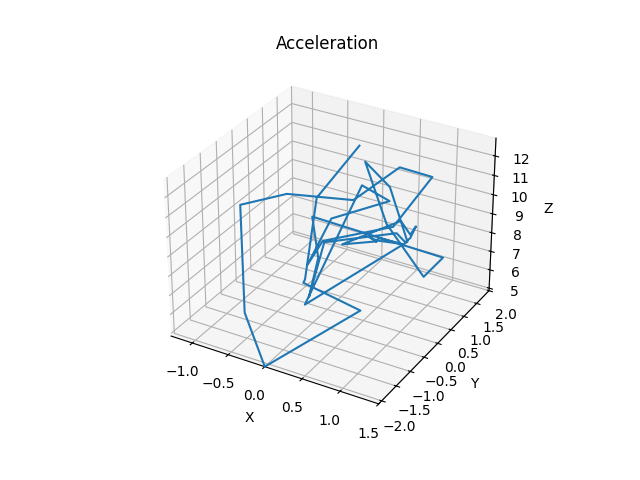
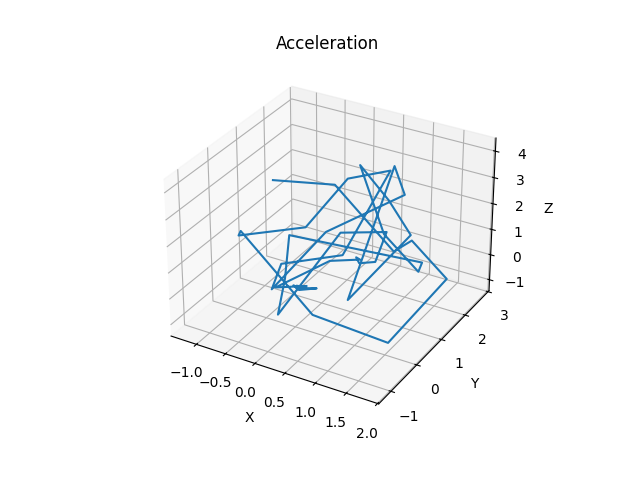
Added method to remove gravity from acceleration messurments to ensure only aplied acceleration is being ploted

Changed region(s): [[0.25, 0.1875, 0.8438, 0.9062], [0.25, 0.75, 0.375, 0.8125]]

diff --git a/dataVisualizer.py b/dataVisualizer.py
@@ -1,17 +1,14 @@
 from matplotlib import animation, pyplot as plot
-from math import tan, arctan, pi
+from math import tan, atan, tau
 
+GRAVITY = -9.81
 
 def main():
     #Open files
     gyroscopeFile = open("./data/testing/gyroscope.txt")
     accelerationFile = open("./data/testing/acceleration.txt")
 
-    GRAVITY = 9.81
-
-    orientation:list[float] = [0, 0, 0] #yaw, pitch, roll in radian
-
-    time_stamp:list[float] = []
+    timeStamp:list[float] = []
 
     gyro_X:list[float] = []
     gyro_Y:list[float] = []
@@ -25,40 +22,38 @@ def main():
     for line in accelerationFile:
         splitLine = line.split(",")
         #milliseconds to seconds
-        time_stamp.append(float(splitLine[0]) / 1000)
-        accel_X.append(float(splitLine[1][1:-1]))
-        accel_Y.append(float(splitLine[2][1:-1]))
-        accel_Z.append(float(splitLine[3][1:-1]))
+        timeStamp.append(float(splitLine[0]) / 1000)
+        accel_X.append(float(splitLine[1]))
+        accel_Y.append(float(splitLine[2]))
+        accel_Z.append(float(splitLine[3]))
 
     for line in gyroscopeFile:
         splitLine = line.split(",")
-        gyro_X.append(float(splitLine[1][1:-1]))
-        gyro_Y.append(float(splitLine[1][1:-1]))
-        gyro_Z.append(float(splitLine[1][1:-1]))
+        gyro_X.append(float(splitLine[1]))
+        gyro_Y.append(float(splitLine[1]))
+        gyro_Z.append(float(splitLine[1]))
 
     #Close files
     gyroscopeFile.close()
     accelerationFile.close()
 
-    #Determine inital orientation
-    orientation[0] = arctan(GRAVITY / accel_X)
-    orientation[1] = arctan(GRAVITY / accel_Y)
-    orientation[2] = arctan(GRAVITY / accel_Z)
+    accel_X = removeGravity(gyro_X, accel_X, timeStamp)
+    accel_Y = removeGravity(gyro_Y, accel_Y, timeStamp)
+    accel_Z = removeGravity(gyro_Z, accel_Z, timeStamp)
+    #first position only used to determin inital orientation and does not get corrected
+    del accel_X[0], accel_Y[0], accel_Z[0], timeStamp[0]
 
-    velocity_X:list[float] = intergrateVelocity(time_stamp, accel_X)
-    velocity_Y:list[float] = intergrateVelocity(time_stamp, accel_Y)
-    velocity_Z:list[float] = intergrateVelocity(time_stamp, accel_Z)
+    velocity_X:list[float] = intergrateVelocity(timeStamp, accel_X)
+    velocity_Y:list[float] = intergrateVelocity(timeStamp, accel_Y)
+    velocity_Z:list[float] = intergrateVelocity(timeStamp, accel_Z)
 
-    position_X:list[float] = intergratePosition(time_stamp, accel_X, velocity_X)
-    position_Y:list[float] = intergratePosition(time_stamp, accel_Y, velocity_Y)
-    position_Z:list[float] = intergratePosition(time_stamp, accel_Z, velocity_Z)
+    position_X:list[float] = intergratePosition(timeStamp, accel_X, velocity_X)
+    position_Y:list[float] = intergratePosition(timeStamp, accel_Y, velocity_Y)
+    position_Z:list[float] = intergratePosition(timeStamp, accel_Z, velocity_Z)
 
     visualizeData(accel_X, accel_Y, accel_Z, "Acceleration")
     visualizeData(velocity_X, velocity_Y, velocity_Z, "Velocity")
     visualizeData(position_X, position_Y, position_Z, "Position")
-
-    
-
     
 
 def visualizeData(data_X:list[float], data_Y:list[float], data_Z:list[float], name:str) -> None:
@@ -79,29 +74,44 @@ def visualizeData(data_X:list[float], data_Y:list[float], data_Z:list[float], na
     plot.show()
 
 #v_f = v_i + (a * t)
-def intergrateVelocity(time_stamp:list[float], values:list[float]) -> list[float]:
-    timeLast:float = time_stamp[0]
+def intergrateVelocity(timeStamp:list[float], values:list[float]) -> list[float]:
+    timeLast:float = timeStamp[0]
     velocityLast:float = 0
     updatedValues:list[float] = []
-    for t in range(1, len(time_stamp)):
-        deltaTime = time_stamp[t] - timeLast
+    for t in range(1, len(timeStamp)):
+        deltaTime = timeStamp[t] - timeLast
         velocityLast += deltaTime * values[t]
         updatedValues.append(velocityLast)
-        timeLast = time_stamp[t]
+        timeLast = timeStamp[t]
 
     return updatedValues
 
 #delta x = (v_i * t) + (0.5 * a * t^2)
-def intergratePosition(time_stamp:list[float], acceleration:list[float], velocity:list[float]) -> list[float]:
-    timeLast:float = time_stamp[0]
+def intergratePosition(timeStamp:list[float], acceleration:list[float], velocity:list[float]) -> list[float]:
+    timeLast:float = timeStamp[0]
     
     newPositions:list[float] = []
-    for t in range(1, len(time_stamp)):
-        deltaTime = time_stamp[t] - timeLast
+    for t in range(1, len(timeStamp)):
+        deltaTime = timeStamp[t] - timeLast
         newPositions.append((velocity[t-1] * timeLast) + (0.5 * acceleration[t-1] * (deltaTime * deltaTime)))
-        timeLast = time_stamp[t]
+        timeLast = timeStamp[t]
 
     return newPositions
+
+def removeGravity(gyro:list[float], accel:list[float], timeStamp:list[float]):
+    theta:float = atan(GRAVITY / accel[0])
+    deltaTime:float = 0
+    timeLast:float = timeStamp[0]
+
+    for i in range(1, len(accel)):
+        deltaTime = timeStamp[i] - timeLast
+        accel[i] = accel[i] - (GRAVITY / tan(theta))
+        theta += gyro[i] * deltaTime
+        if (theta > tau or theta < -tau):
+            theta = theta % tau
+        timeLast = timeStamp[i]    
+
+    return accel
 
 if (__name__ == "__main__"):
     main()
